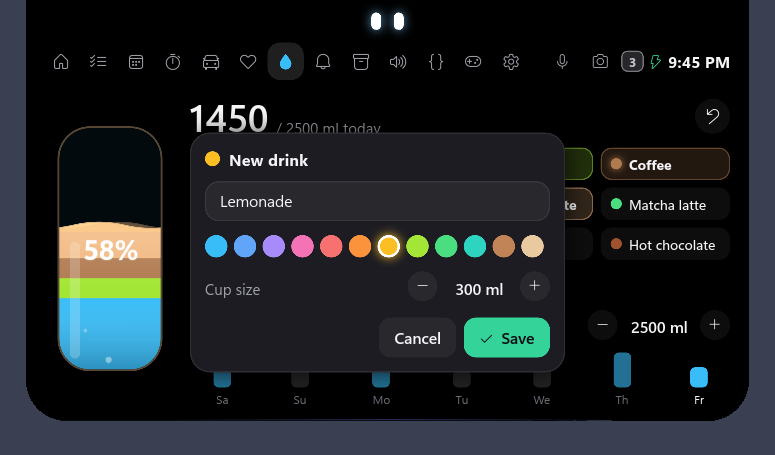
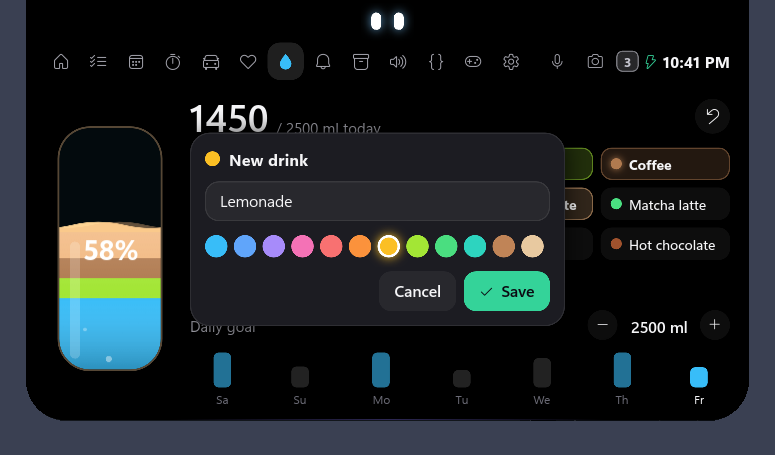
Water: New drink asks only for a name and colour
The size is picked from the cups each time you log a drink, so the editor
doesn't need its own cup size.

Changed region(s): [[0.2477, 0.5846, 0.7432, 0.8615], [0.7123, 0.0923, 0.96, 0.1538], [0.2477, 0.6154, 0.3406, 0.6462]]

diff --git a/README.md b/README.md
@@ -98,12 +98,12 @@ Stand-up reminders wait for a pause in your typing, hold off during calls, fulls
 
 Not just water: tap **Water, Tea, Green tea, Coffee, Espresso, Iced latte, Spanish latte, Matcha latte, Juice, Milk, Sparkling** or **Hot chocolate**, then pick how much from cups drawn out for you: a shot (40 ml), tea glass (150), cup (250), big mug (350), tall glass (400), bottle (500) or big bottle (1 L), or any other amount. The size you had last time is marked, so it adapts to your own cups. Each drink has its own colour, and the bottle fills in layers of what you drank today, with moving waves in the colour of the last one and bubbles rising through it. Drinks you had today light up in their colour.
 
-* **Your own drinks.** **New drink** asks for a name (Cortado, Mocha, Lemonade…), one of 12 colours and the usual cup size. Right-click any drink to rename it, recolour it, change its cup size or remove it.
+* **Your own drinks.** **New drink** asks for a name (Cortado, Mocha, Lemonade…) and one of 12 colours; you pick the size when you log it. Right-click any drink to rename it, recolour it or remove it.
 * Every drink counts towards the daily goal. **Undo** takes back the last one, and the 7-day chart shows how close each day got.
 * Reminders come every N minutes between 08:00 and 22:00, with a one-click **+cup** of water.
 
 <img src="docs/screenshots/water.png" width="440" alt="Water tab: a bottle filled in drink-coloured layers and the drink tiles"> <img src="docs/screenshots/water-sizes.png" width="440" alt="Picking how much: shot, tea glass, cup, big mug, tall glass, bottle or big bottle">
-<img src="docs/screenshots/water-new-drink.png" width="440" alt="Adding your own drink with a name, colour and cup size">
+<img src="docs/screenshots/water-new-drink.png" width="440" alt="Adding your own drink with a name and colour">
 
 ### Alarms
 
